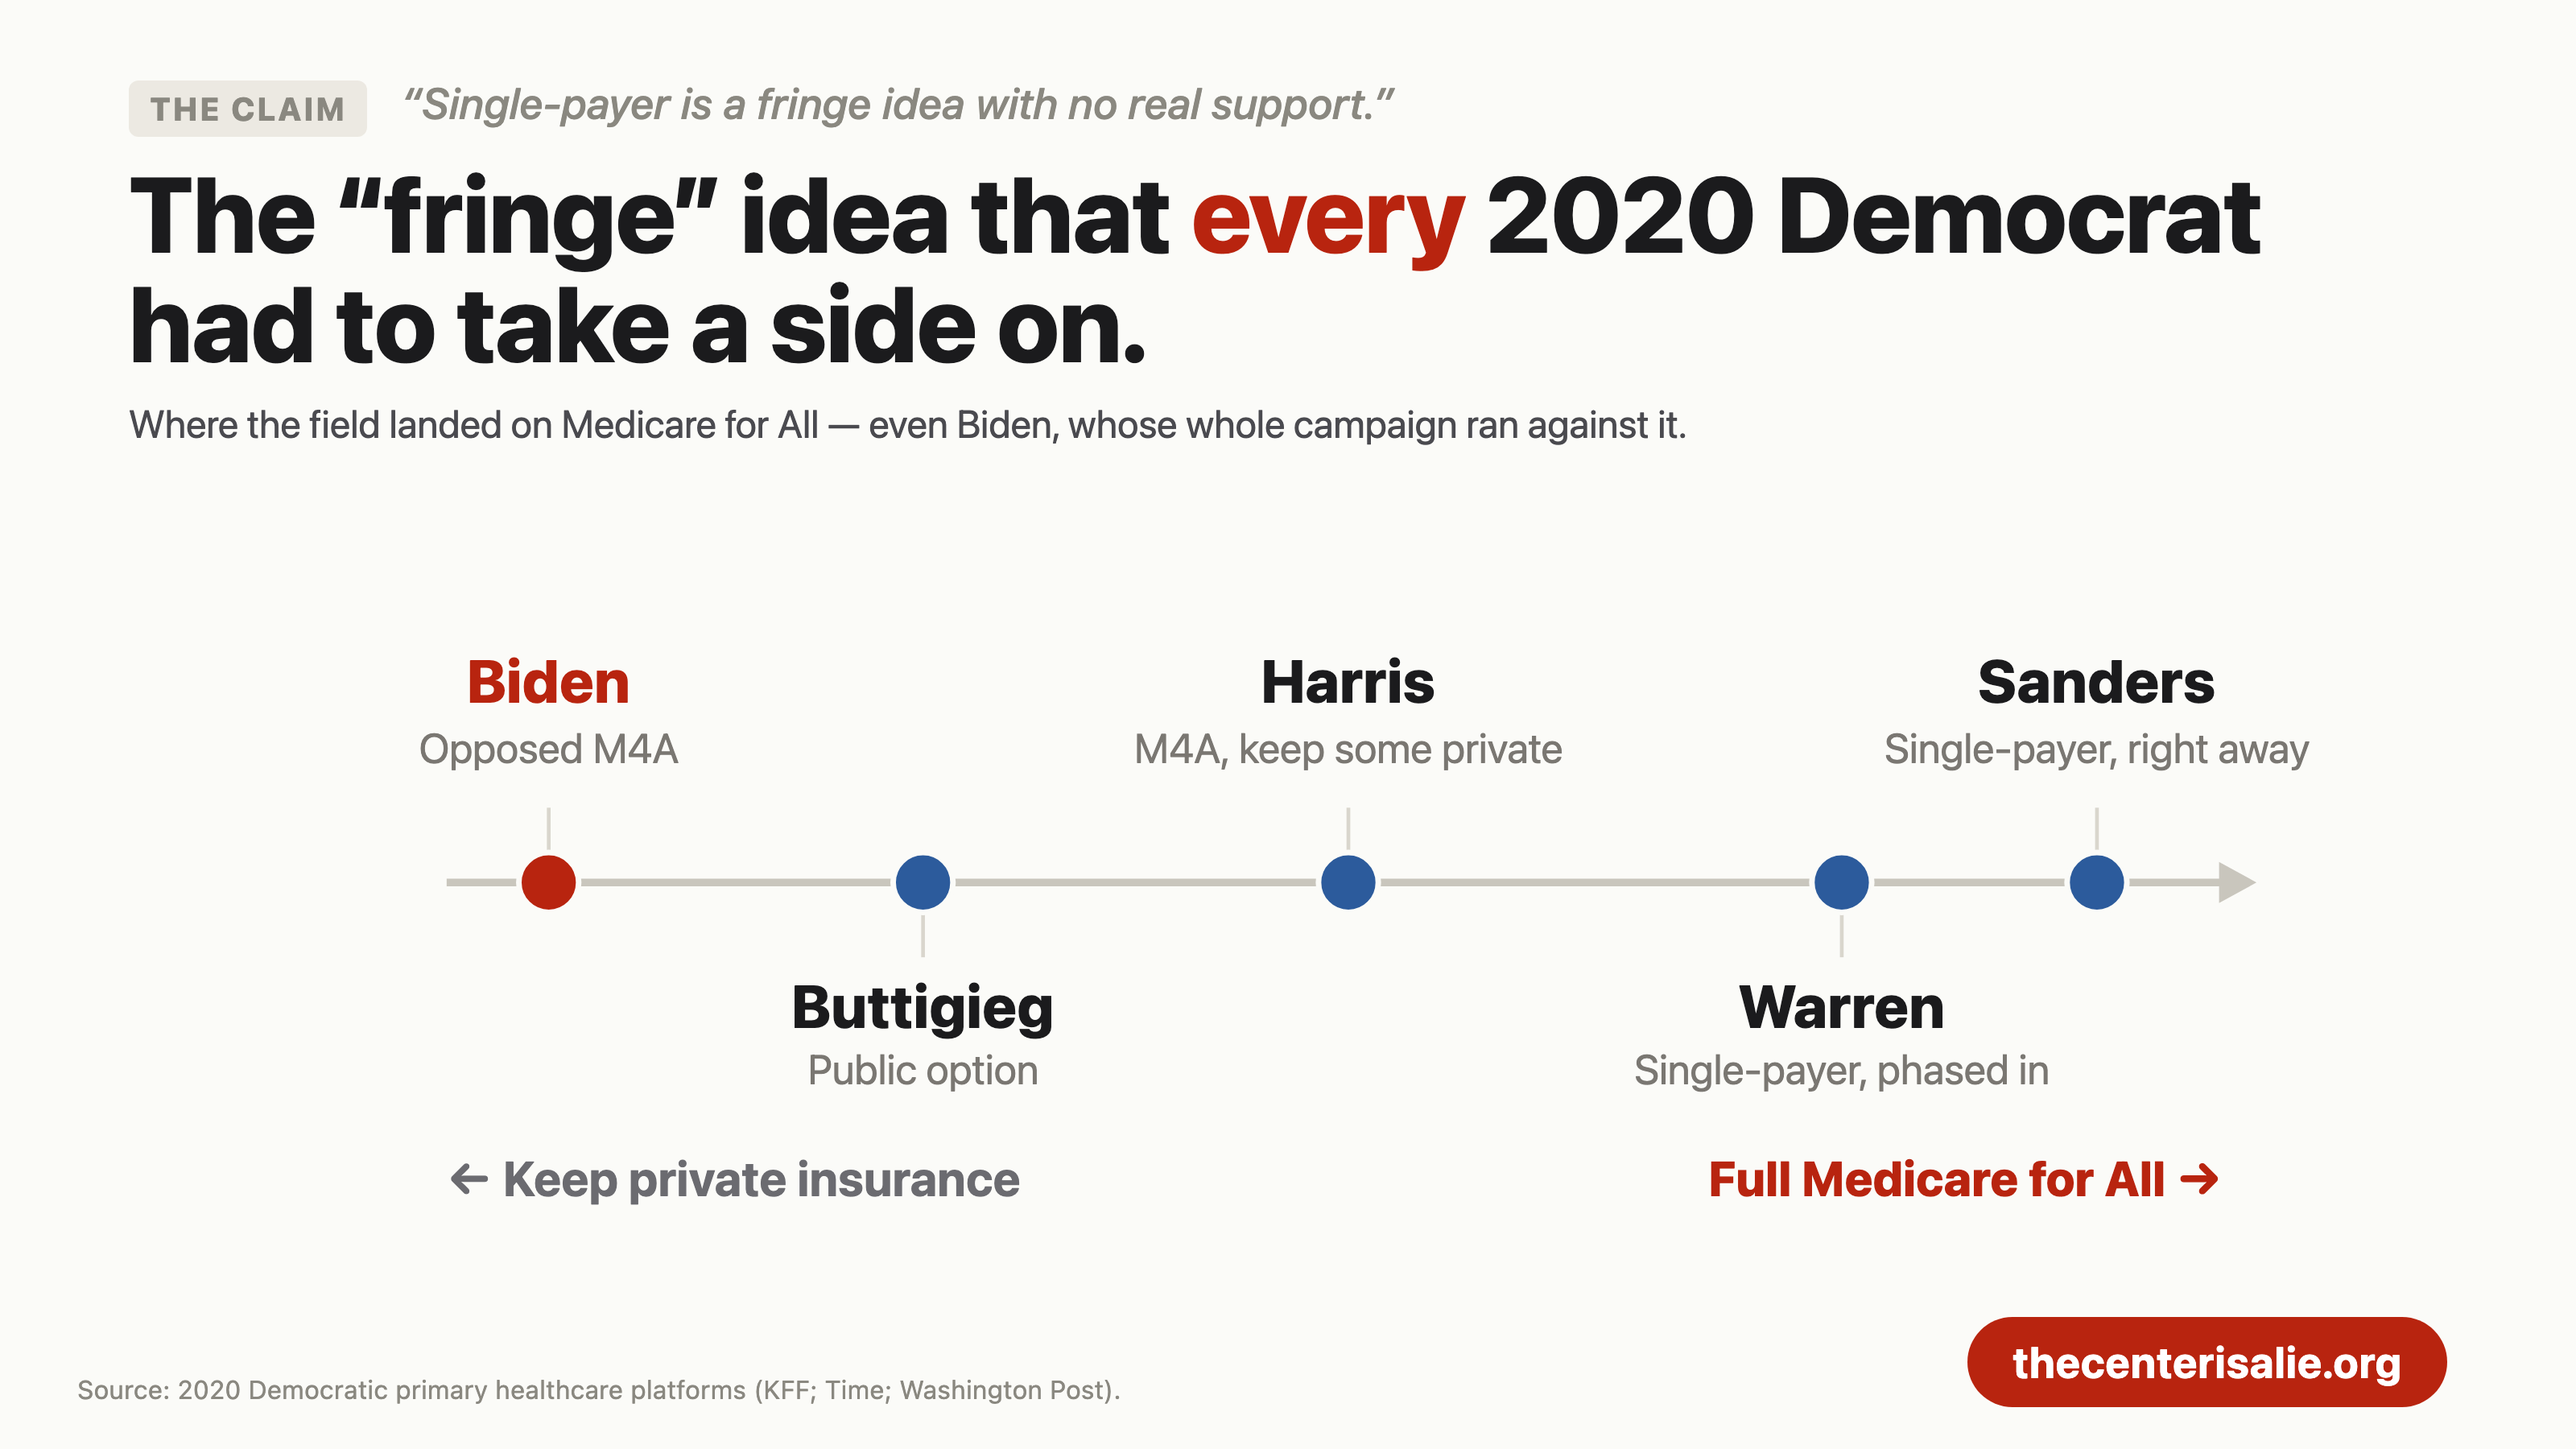
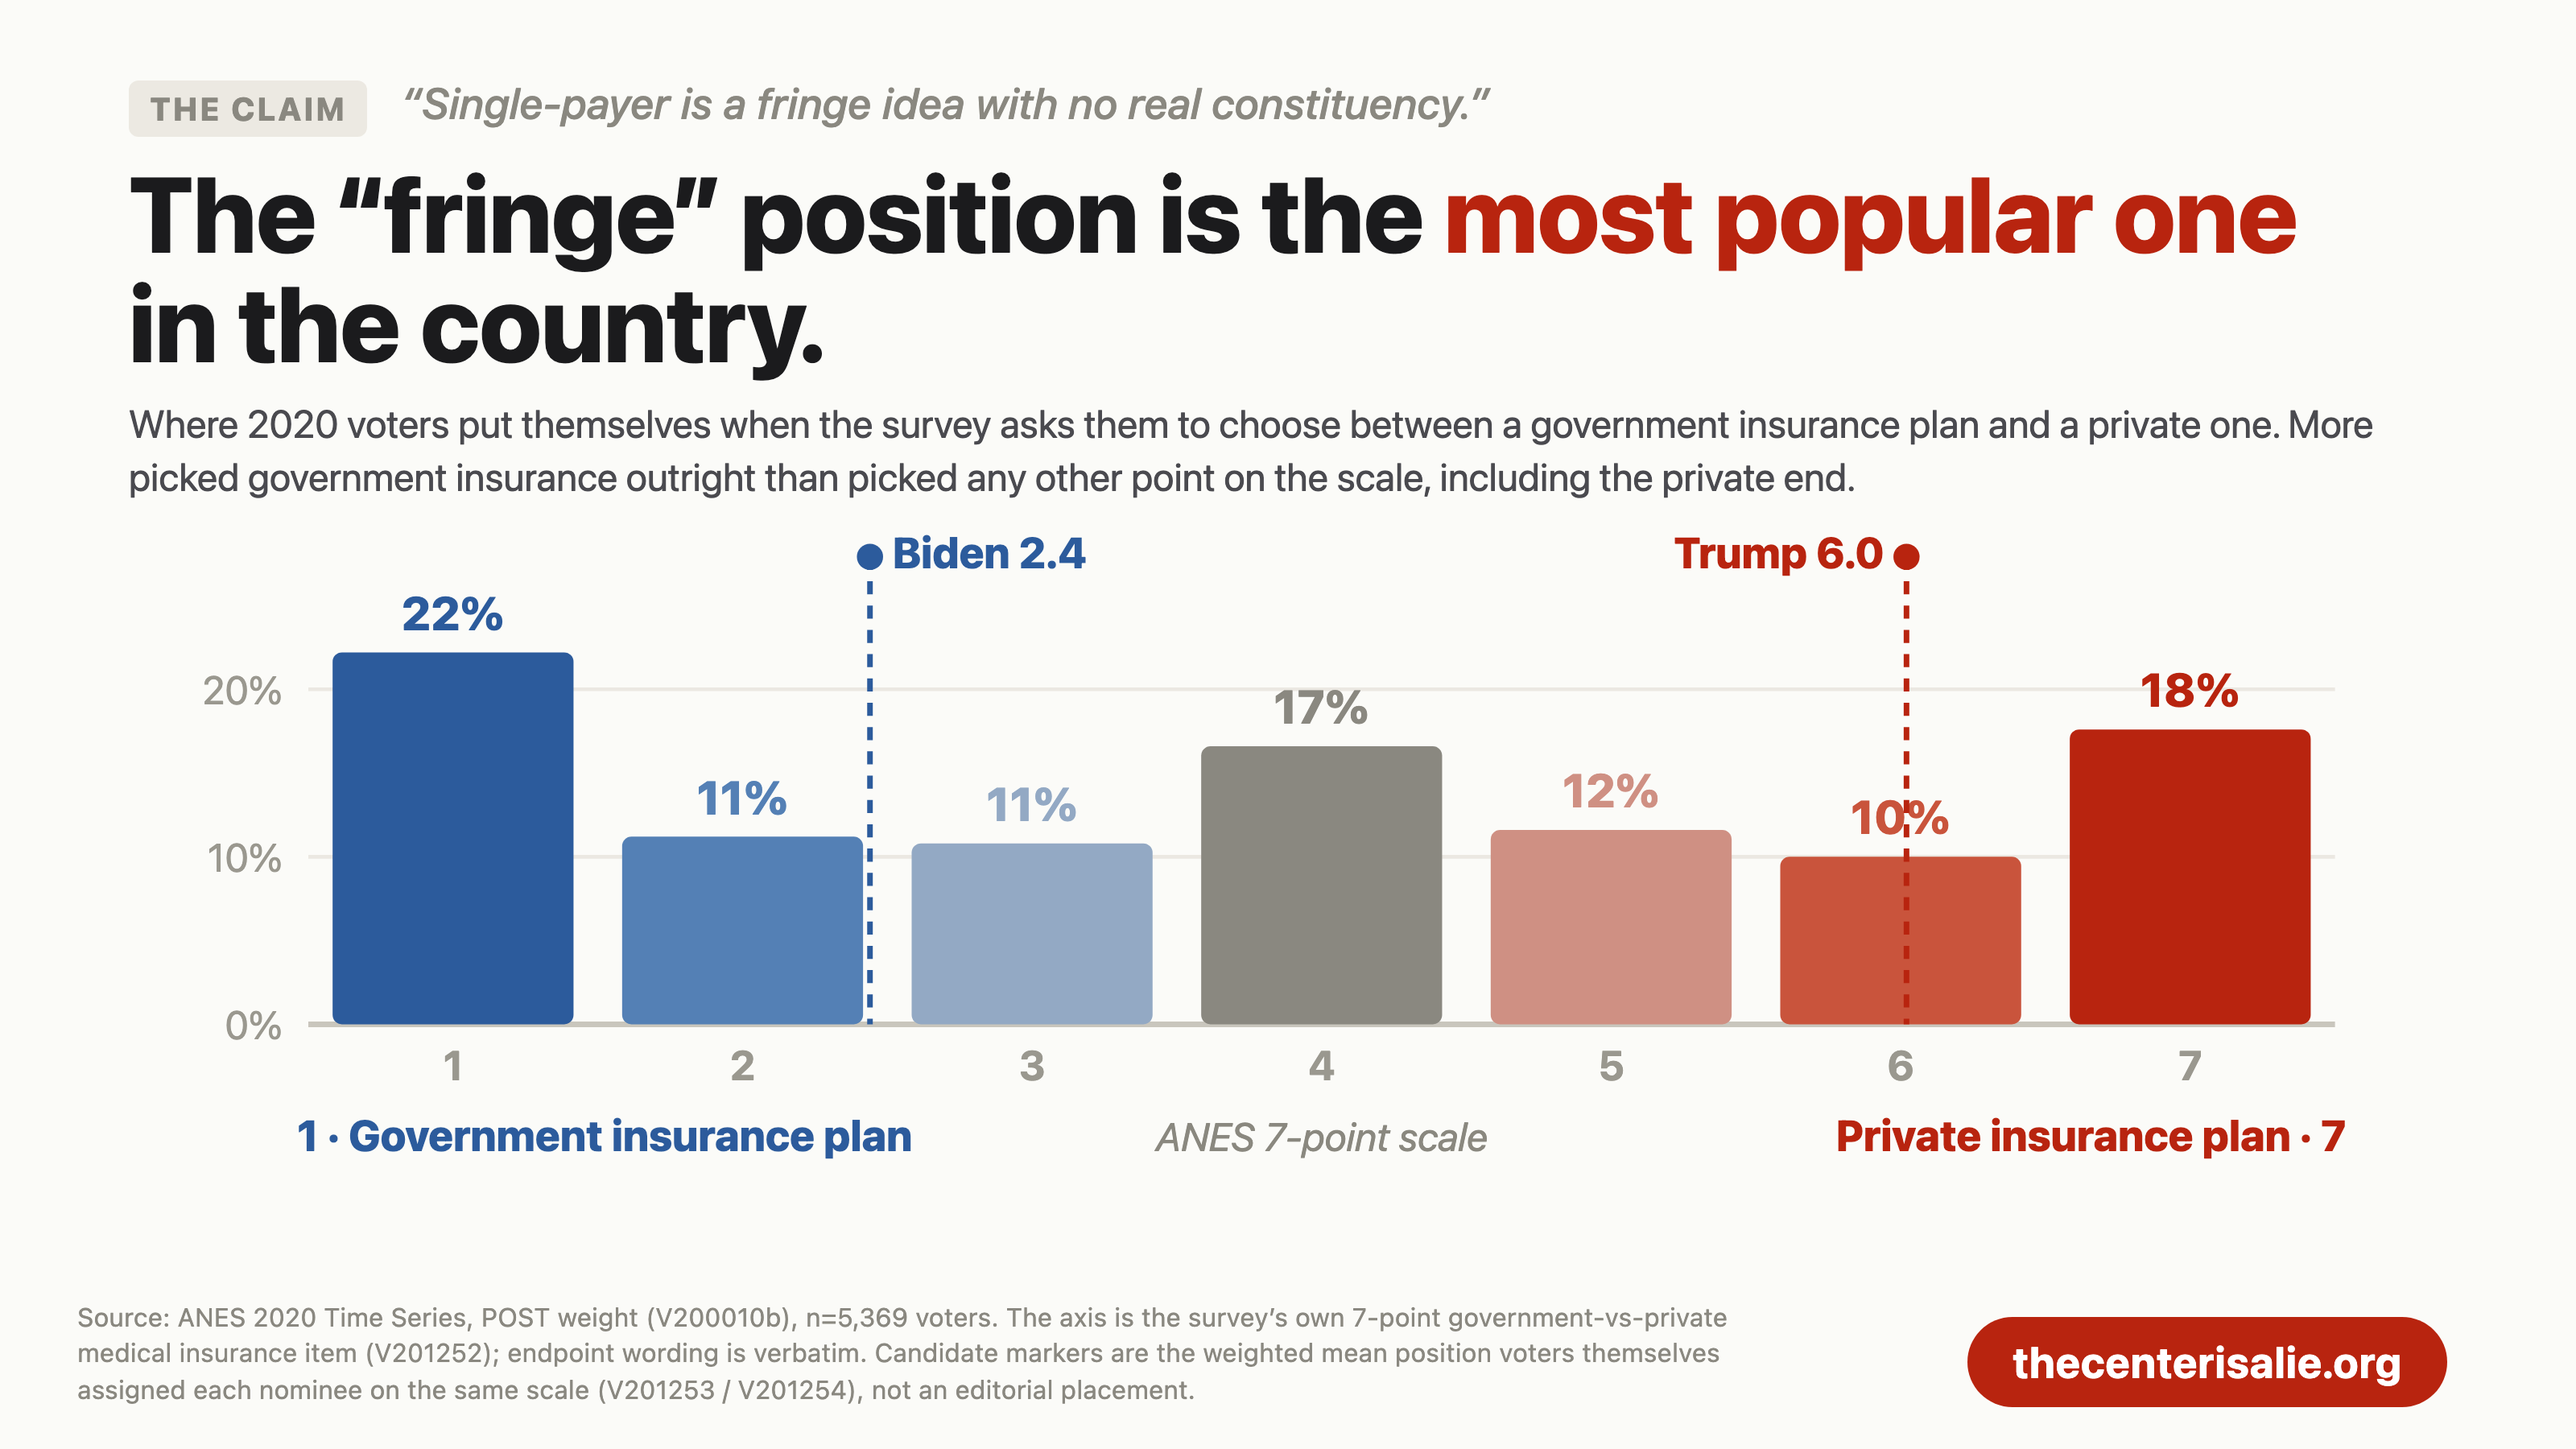
fix(og): rebuild m4a on the survey's own measured scale
The old axis was a line I drew: "keep private insurance" to "full Medicare for
All", with candidates placed by editorial judgement from platform documents. It
had no units, no source, and no voters on it, so there was no way to tell what
the spectrum was or where the electorate sat.

Replaced with ANES's own 7-point government-vs-private medical insurance item
(V201252), endpoint wording verbatim from the instrument, showing the weighted
distribution of 2020 voters. The finding is stronger than the original card's:
the government-insurance pole is the single most-chosen position in the
electorate at 22.2%, ahead of the private-insurance pole at 17.6%.

Candidate markers are now measured too: the weighted mean position voters
themselves assigned each nominee on the same scale (V201253 / V201254). The
2020 primary field is gone because no comparable measurement exists for
primary-season candidates, and mixing editorial placements with a measured
distribution on one axis implies a commensurability that isn't there.

diff --git a/web/og-cards/chart-m4a.html b/web/og-cards/chart-m4a.html
@@ -2,15 +2,15 @@
 <html lang="en"><head><meta charset="utf-8"><link rel="stylesheet" href="./chart-card.css"></head>
 <body>
   <div class="chartcard">
-    <div class="cc-claim"><span class="tag">The claim</span> &ldquo;Single-payer is a fringe idea with no real support.&rdquo;</div>
-    <div class="cc-title">The &ldquo;fringe&rdquo; idea that <span class="hl">every</span> 2020 Democrat had to take a side on.</div>
-    <div class="cc-sub">Where the field landed on Medicare for All &mdash; even Biden, whose whole campaign ran against it.</div>
+    <div class="cc-claim"><span class="tag">The claim</span> &ldquo;Single-payer is a fringe idea with no real constituency.&rdquo;</div>
+    <div class="cc-title">The &ldquo;fringe&rdquo; position is the <span class="hl">most popular one</span> in the country.</div>
+    <div class="cc-sub">Where 2020 voters put themselves when the survey asks them to choose between a government insurance plan and a private one. More picked government insurance outright than picked any other point on the scale, including the private end.</div>
 
-    <div class="cc-chart"><svg id="m4a" viewBox="0 0 1240 449" role="img"
-      aria-label="2020 Democrats placed on a line from keeping private insurance to full Medicare for All, from Biden at the private end to Sanders at the single-payer end"></svg></div>
+    <div class="cc-chart"><svg id="m4a" viewBox="0 0 1240 404" role="img"
+      aria-label="Distribution of 2020 voters on the 7-point government versus private medical insurance scale: 22 percent at government insurance, then 11, 11, 17, 12, 10, and 18 percent at private insurance. Voters placed Biden at 2.4 and Trump at 6.0."></svg></div>
 
     <div class="cc-foot">
-      <div class="cc-source">Source: 2020 Democratic primary healthcare platforms (KFF; Time; Washington Post).</div>
+      <div class="cc-source">Source: ANES 2020 Time Series, POST weight (V200010b), n=5,369 voters. The axis is the survey&rsquo;s own 7-point government-vs-private medical insurance item (V201252); endpoint wording is verbatim. Candidate markers are the weighted mean position voters themselves assigned each nominee on the same scale (V201253 / V201254), not an editorial placement.</div>
       <div class="cc-btn">thecenterisalie.org</div>
     </div>
   </div>
@@ -21,30 +21,41 @@
     const el = (t, a) => { const n = document.createElementNS(NS, t); for (const k in a) n.setAttribute(k, a[k]); return n; };
     const txt = (a, s) => { const t = el('text', a); t.textContent = s; svg.appendChild(t); return t; };
 
-    const X0 = 170, X1 = 1080, axisY = 224;
-    const px = (p) => X0 + p * (X1 - X0);
+    // Weighted % of 2020 voters at each point of the scale.
+    const V = [22.2, 11.2, 10.8, 16.6, 11.6, 10.0, 17.6];
+    // scale position -> colour, government end blue through private end red
+    const C = ['#2c5b9c', '#5480b5', '#93a9c4', '#8a8880', '#cf9083', '#c9543c', '#b8240f'];
 
-    svg.appendChild(el('line', { x1: X0, y1: axisY, x2: X1 + 40, y2: axisY, stroke: '#c9c6bd', 'stroke-width': 4 }));
-    svg.appendChild(el('path', { d: `M ${X1 + 58} ${axisY} l -20 -11 l 0 22 z`, fill: '#c9c6bd' }));
+    const X0 = 96, X1 = 1180, TOP = 44, BOT = 268;
+    const W = X1 - X0, slot = W / 7, bW = slot - 26, VMAX = 25;
+    const y = (v) => BOT - (v / VMAX) * (BOT - TOP);
 
-    txt({ x: X0, y: axisY + 168, 'text-anchor': 'start', fill: '#6b6b70', 'font-size': 26, 'font-weight': 700 }, '← Keep private insurance');
-    txt({ x: X1 + 40, y: axisY + 168, 'text-anchor': 'end', fill: '#b8240f', 'font-size': 26, 'font-weight': 800 }, 'Full Medicare for All →');
+    [0, 10, 20].forEach((v) => {
+      svg.appendChild(el('line', { x1: X0, y1: y(v), x2: X1, y2: y(v),
+        stroke: v === 0 ? '#c9c6bd' : '#ebe8e2', 'stroke-width': v === 0 ? 3 : 2 }));
+      txt({ x: X0 - 14, y: y(v) + 8, 'text-anchor': 'end', fill: '#9a988f', 'font-size': 21 }, v + '%');
+    });
 
-    const cands = [
-      { p: 0.06, name: 'Biden', sub: 'Opposed M4A', up: true, hot: true },
-      { p: 0.28, name: 'Buttigieg', sub: 'Public option', up: false },
-      { p: 0.53, name: 'Harris', sub: 'M4A, keep some private', up: true },
-      { p: 0.82, name: 'Warren', sub: 'Single-payer, phased in', up: false },
-      { p: 0.97, name: 'Sanders', sub: 'Single-payer, right away', up: true },
-    ];
-    cands.forEach((c) => {
-      const x = px(c.p), col = c.hot ? '#b8240f' : '#2c5b9c';
-      // short connector stub only (never reaches the text)
-      svg.appendChild(el('line', { x1: x, y1: c.up ? axisY - 16 : axisY + 16, x2: x, y2: c.up ? axisY - 40 : axisY + 40, stroke: '#d9d6cd', 'stroke-width': 2 }));
-      svg.appendChild(el('circle', { cx: x, cy: axisY, r: 16, fill: col, stroke: '#fbfbf8', 'stroke-width': 3 }));
-      const ny = c.up ? axisY - 96 : axisY + 78, sy = c.up ? axisY - 64 : axisY + 108;
-      txt({ x, y: ny, 'text-anchor': 'middle', fill: c.hot ? '#b8240f' : '#1b1b1d', 'font-size': 32, 'font-weight': 800 }, c.name);
-      txt({ x, y: sy, 'text-anchor': 'middle', fill: '#7a7772', 'font-size': 22 }, c.sub);
+    V.forEach((v, i) => {
+      const cx = X0 + slot * (i + 0.5);
+      svg.appendChild(el('rect', { x: cx - bW / 2, y: y(v), width: bW, height: BOT - y(v), rx: 5, fill: C[i] }));
+      txt({ x: cx, y: y(v) - 12, 'text-anchor': 'middle', fill: C[i], 'font-size': 25, 'font-weight': 800 }, v.toFixed(0) + '%');
+      txt({ x: cx, y: BOT + 30, 'text-anchor': 'middle', fill: '#9a988f', 'font-size': 22, 'font-weight': 700 }, String(i + 1));
+    });
+
+    // the survey's own endpoint wording, so the axis is the instrument, not a metaphor
+    txt({ x: X0 - 6, y: BOT + 68, 'text-anchor': 'start', fill: '#2c5b9c', 'font-size': 23, 'font-weight': 800 }, '1 · Government insurance plan');
+    txt({ x: X1 + 6, y: BOT + 68, 'text-anchor': 'end', fill: '#b8240f', 'font-size': 23, 'font-weight': 800 }, 'Private insurance plan · 7');
+    txt({ x: (X0 + X1) / 2, y: BOT + 68, 'text-anchor': 'middle', fill: '#8a887f', 'font-size': 21, 'font-style': 'italic' }, 'ANES 7-point scale');
+
+    // where voters themselves placed the two nominees, on this same scale
+    const px = (p) => X0 + slot * (p - 0.5);
+    [{ p: 2.44, n: 'Biden', c: '#2c5b9c', dx: 12, an: 'start' },
+     { p: 6.02, n: 'Trump', c: '#b8240f', dx: -12, an: 'end' }].forEach((m) => {
+      const mx = px(m.p);
+      svg.appendChild(el('line', { x1: mx, y1: TOP - 26, x2: mx, y2: BOT, stroke: m.c, 'stroke-width': 3, 'stroke-dasharray': '7 6' }));
+      svg.appendChild(el('circle', { cx: mx, cy: TOP - 26, r: 7, fill: m.c }));
+      txt({ x: mx + m.dx, y: TOP - 20, 'text-anchor': m.an, fill: m.c, 'font-size': 23, 'font-weight': 800 }, m.n + ' ' + m.p.toFixed(1));
     });
   </script>
 </body></html>
